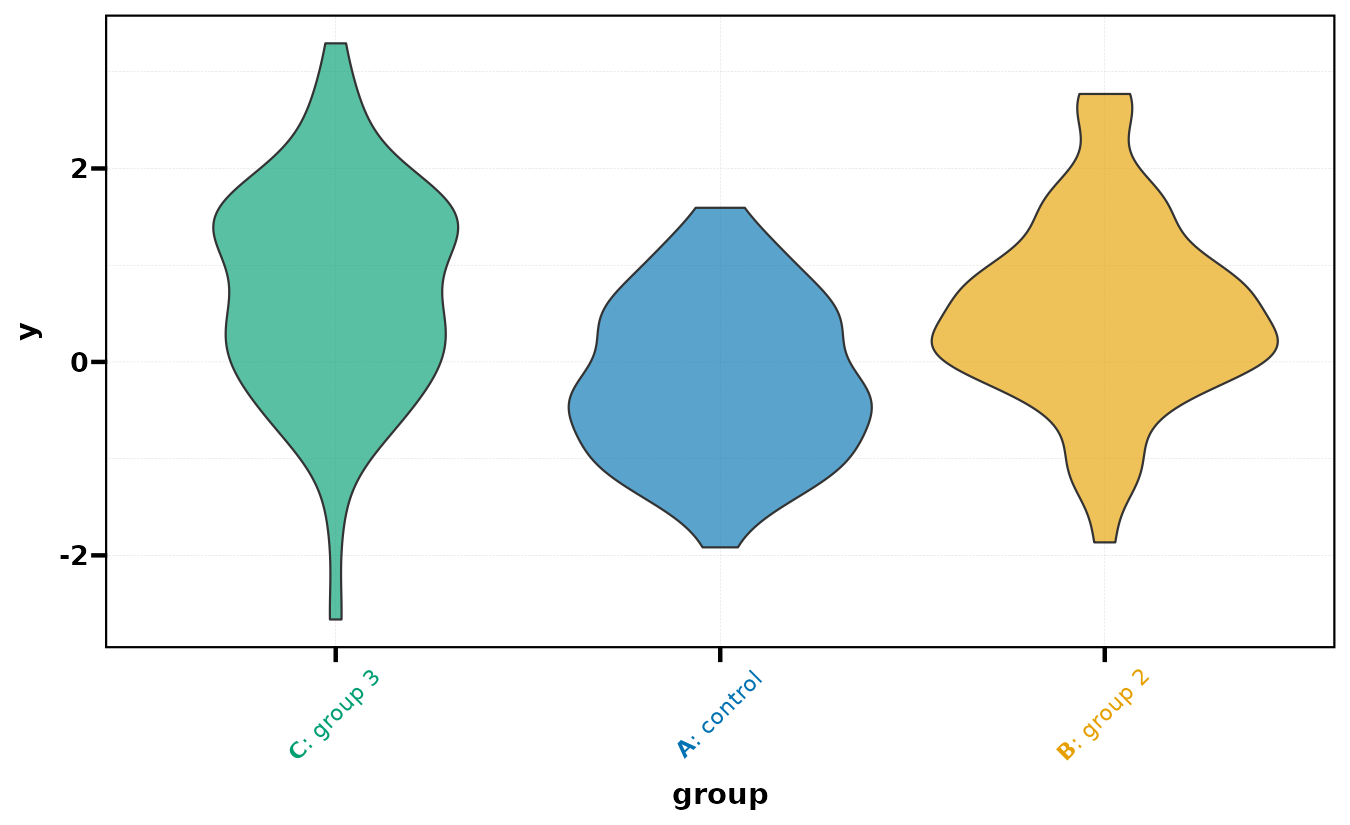
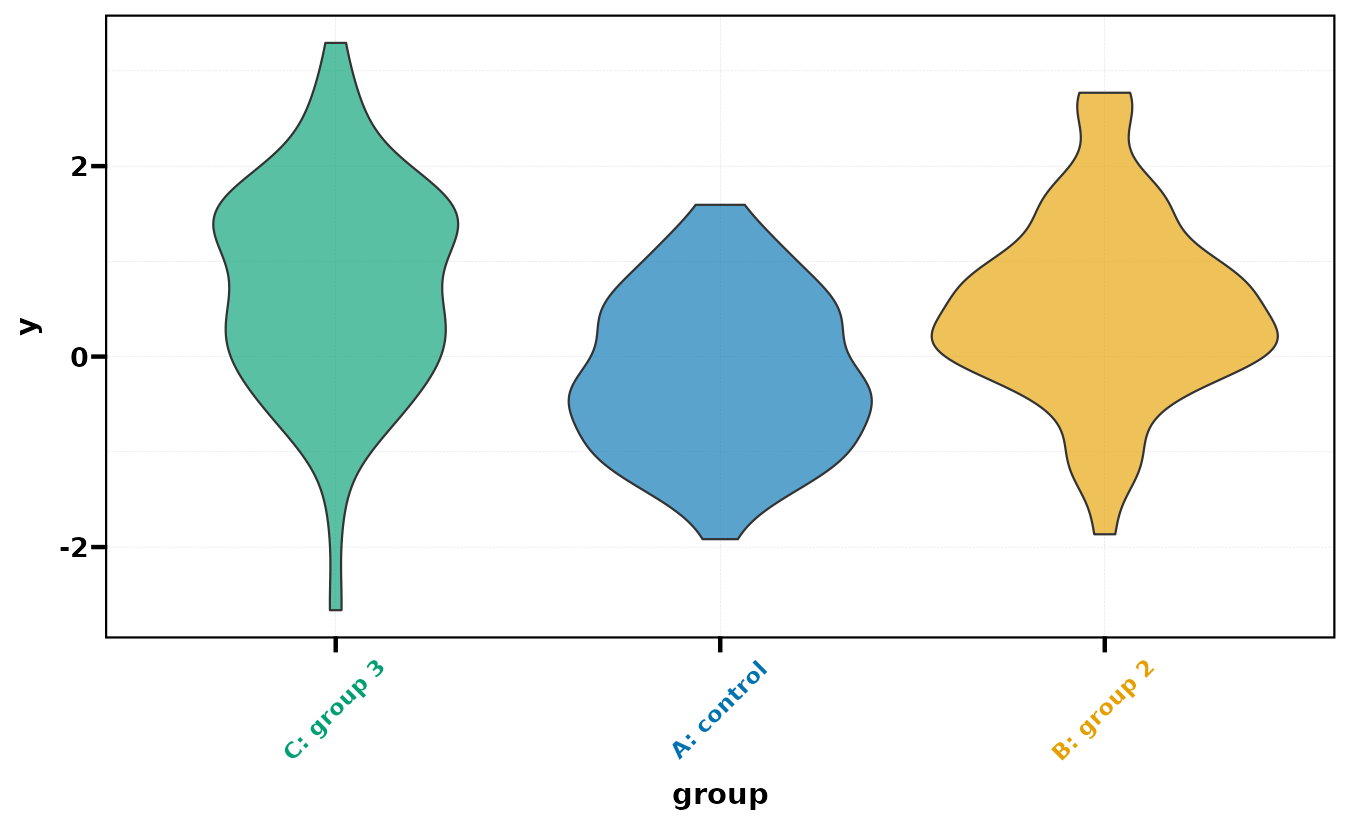
docs(utilsr): follow fmt_axisTile defaults and new formatter warnings
fmt_axisTile() now keeps the plot's axis text style and returns a ggplot
for a ggplot in tile mode; the six axis tile and colored-text figures are
redrawn with UtilsR 237b839 and the signature, return-type notes and text
are updated. The guide also documents the fmt_axis() plot_dims warning and
plot_layout(axes = "collect"), the fmt_expand() warning under
coord_*(expand = FALSE), and supplying sec.axis again in fmt_scale() for an
already drawn plot.

diff --git a/docs/utilsr/format-guide.html b/docs/utilsr/format-guide.html
@@ -1122,7 +1122,7 @@ pre > code.sourceCode > span > a:first-child::before { text-decoration: underlin
 
 
 <p>fmt_plot 和常用 fmt_* 的前后对照、主题选择、坐标尺度及多面板格式化。各节用固定输入比较重要参数，标签页中展示可复制代码与实际结果。</p>
-<p><strong>核对记录：</strong> 本次按已推送 UtilsR <code>fc078ec</code> 更新统计比较、背景与图例，修复越界的 label.y.prop 示例，并实际执行新增的配对、单侧与校正 P 值对照。已有轴文字、颜色条、条带及其他图保留各自执行快照；2026-10-12–13新增12张实图：统计、背景与图例按fc078ec执行，后补4张留白图按已推送1eb5faf执行。包版本仍为 0.6.8；输入均为固定种子的模拟数据。</p>
+<p><strong>核对记录：</strong> 2026-10-18 按已推送 UtilsR <code>237b839</code> 重绘轴颜色条与彩色轴文字的六张图，并补充 <code>fmt_axis()</code>、<code>fmt_expand()</code> 的新警告和 <code>fmt_scale()</code> 的副轴说明。此前按已推送 UtilsR <code>fc078ec</code> 更新统计比较、背景与图例，修复越界的 label.y.prop 示例，并实际执行新增的配对、单侧与校正 P 值对照。已有轴文字、颜色条、条带及其他图保留各自执行快照；2026-10-12–13新增12张实图：统计、背景与图例按fc078ec执行，后补4张留白图按已推送1eb5faf执行。包版本仍为 0.6.8；输入均为固定种子的模拟数据。</p>
 <section id="data" class="level2">
 <h2 class="anchored" data-anchor-id="data">数据准备与输入约定</h2>
 <p>所有示例使用下列模拟数据，因子水平显式固定，重复执行可得到相同输入。</p>
@@ -1176,7 +1176,7 @@ pre > code.sourceCode > span > a:first-child::before { text-decoration: underlin
 <tr class="even">
 <td style="text-align: left;"><code>fmt_axis()</code></td>
 <td style="text-align: left;"><code>x.axis = FALSE</code>、<code>y.axis = FALSE</code>、<code>plot_dims = NULL</code></td>
-<td style="text-align: left;">TRUE 表示隐藏；也可用子图索引或维度选择隐藏位置</td>
+<td style="text-align: left;">TRUE 表示隐藏；也可用子图索引或维度选择隐藏位置；plot_dims 与不含嵌套的拼图布局不符时警告</td>
 </tr>
 <tr class="odd">
 <td style="text-align: left;"><code>fmt_axisText()</code></td>
@@ -1185,8 +1185,8 @@ pre > code.sourceCode > span > a:first-child::before { text-decoration: underlin
 </tr>
 <tr class="even">
 <td style="text-align: left;"><code>fmt_axisTile()</code></td>
-<td style="text-align: left;"><code>colors</code>、<code>mode = "tile"</code>、<code>axis = "x"</code>、<code>tile_height/width</code></td>
-<td style="text-align: left;">离散轴用颜色块或文字编码，颜色按轴类别对应</td>
+<td style="text-align: left;"><code>colors</code>、<code>mode = "tile"</code>、<code>axis = "x"</code>、<code>tile_height/width</code>、<code>text_size/face/angle/color = NULL</code></td>
+<td style="text-align: left;">离散轴用颜色块或文字编码，颜色按轴类别对应；文字样式默认沿用原图，颜色名全部对不上时警告</td>
 </tr>
 <tr class="odd">
 <td style="text-align: left;"><code>fmt_text()</code></td>
@@ -1236,12 +1236,12 @@ pre > code.sourceCode > span > a:first-child::before { text-decoration: underlin
 <tr class="even">
 <td style="text-align: left;"><code>fmt_scale()</code></td>
 <td style="text-align: left;"><code>x/y</code> 命名 list</td>
-<td style="text-align: left;">breaks、labels、limits、trans 等交给对应 scale；limits 会移除范围外数据</td>
+<td style="text-align: left;">breaks、labels、limits、trans 等交给对应 scale；limits 会移除范围外数据；副轴复制后不与原图共用</td>
 </tr>
 <tr class="odd">
 <td style="text-align: left;"><code>fmt_expand()</code></td>
 <td style="text-align: left;"><code>mult = 0</code>、<code>add = c(0,0)</code>、<code>axis = NULL</code></td>
-<td style="text-align: left;">改两端留白；日期为天，日期时间/hms为秒，其他轴为变换后尺度单位</td>
+<td style="text-align: left;">改两端留白；日期为天，日期时间/hms为秒，其他轴为变换后尺度单位；coord_*(expand = FALSE) 时警告</td>
 </tr>
 <tr class="even">
 <td style="text-align: left;"><code>fmt_point()</code></td>
@@ -1336,24 +1336,24 @@ pre > code.sourceCode > span > a:first-child::before { text-decoration: underlin
 </div>
 </div>
 <div id="tabset-2-3" class="tab-pane" role="tabpanel" aria-labelledby="tabset-2-3-tab">
-<p>在离散横轴外增加颜色条，与 A/B/C 的类别固定对应。</p>
+<p>在离散横轴外增加颜色条，与 A/B/C 的类别固定对应；轴文字沿用原图的字号、字体和角度。</p>
 <div class="code-copy-outer-scaffold"><div class="sourceCode" id="cb8"><pre class="sourceCode r code-with-copy"><code class="sourceCode r"><span id="cb8-1"><a href="#cb8-1" aria-hidden="true" tabindex="-1"></a><span class="fu">fmt_axisTile</span>(p_box, <span class="at">colors =</span> cols, <span class="at">mode =</span> <span class="st">"tile"</span>, <span class="at">axis =</span> <span class="st">"x"</span>,</span>
 <span id="cb8-2"><a href="#cb8-2" aria-hidden="true" tabindex="-1"></a>             <span class="at">tile_height =</span> <span class="fl">0.08</span>, <span class="at">tile_border =</span> <span class="st">"white"</span>)</span></code></pre></div><button title="复制到剪贴板" class="code-copy-button"><i class="bi"></i></button></div>
 <div class="quarto-figure quarto-figure-center">
 <figure class="figure">
-<p><a href="images/format-guide/axis-tile.png" class="lightbox" data-gallery="quarto-lightbox-gallery-7" title="在离散横轴外增加颜色条，与 A/B/C 的类别固定对应。"><img src="images/format-guide/axis-tile.png" class="img-fluid figure-img" alt="ggplot 格式化：主题、坐标、图例、条带与面板标签；轴颜色条；固定模拟数据的实际参数对照结果。" loading="lazy" decoding="async" width="1200" height="750" srcset="../assets/figure-previews/e1ece896e51b4bd42d44fe6d712aa2f3.webp"></a></p>
-<figcaption>在离散横轴外增加颜色条，与 A/B/C 的类别固定对应。</figcaption>
+<p><a href="images/format-guide/axis-tile.png" class="lightbox" data-gallery="quarto-lightbox-gallery-7" title="在离散横轴外增加颜色条，与 A/B/C 的类别固定对应；轴文字沿用原图的字号、字体和角度。"><img src="images/format-guide/axis-tile.png" class="img-fluid figure-img" alt="ggplot 格式化：主题、坐标、图例、条带与面板标签；轴颜色条；固定模拟数据的实际参数对照结果。" loading="lazy" decoding="async" width="1200" height="750" srcset="../assets/figure-previews/7aa726a4dd85a3f258914fb086c20e51.webp"></a></p>
+<figcaption>在离散横轴外增加颜色条，与 A/B/C 的类别固定对应；轴文字沿用原图的字号、字体和角度。</figcaption>
 </figure>
 </div>
 </div>
 <div id="tabset-2-4" class="tab-pane" role="tabpanel" aria-labelledby="tabset-2-4-tab">
-<p>改用文字颜色编码类别；没有额外轴颜色块。</p>
+<p>改用文字颜色编码类别；没有额外轴颜色块。未设 text_angle，文字保持原图的水平方向。</p>
 <div class="code-copy-outer-scaffold"><div class="sourceCode" id="cb9"><pre class="sourceCode r code-with-copy"><code class="sourceCode r"><span id="cb9-1"><a href="#cb9-1" aria-hidden="true" tabindex="-1"></a><span class="fu">fmt_axisTile</span>(p_box, <span class="at">colors =</span> cols, <span class="at">mode =</span> <span class="st">"text"</span>, <span class="at">axis =</span> <span class="st">"x"</span>,</span>
 <span id="cb9-2"><a href="#cb9-2" aria-hidden="true" tabindex="-1"></a>             <span class="at">text_size =</span> <span class="dv">13</span>, <span class="at">text_face =</span> <span class="st">"bold"</span>)</span></code></pre></div><button title="复制到剪贴板" class="code-copy-button"><i class="bi"></i></button></div>
 <div class="quarto-figure quarto-figure-center">
 <figure class="figure">
-<p><a href="images/format-guide/axis-color-text.png" class="lightbox" data-gallery="quarto-lightbox-gallery-8" title="改用文字颜色编码类别；没有额外轴颜色块。"><img src="images/format-guide/axis-color-text.png" class="img-fluid figure-img" alt="ggplot 格式化：主题、坐标、图例、条带与面板标签；彩色轴文字；固定模拟数据的实际参数对照结果。" loading="lazy" decoding="async" width="1200" height="750" srcset="../assets/figure-previews/4e8e6a388d5be9d69fe20c0e593b7116.webp"></a></p>
-<figcaption>改用文字颜色编码类别；没有额外轴颜色块。</figcaption>
+<p><a href="images/format-guide/axis-color-text.png" class="lightbox" data-gallery="quarto-lightbox-gallery-8" title="改用文字颜色编码类别；没有额外轴颜色块。未设 text_angle，文字保持原图的水平方向。"><img src="images/format-guide/axis-color-text.png" class="img-fluid figure-img" alt="ggplot 格式化：主题、坐标、图例、条带与面板标签；彩色轴文字；固定模拟数据的实际参数对照结果。" loading="lazy" decoding="async" width="1200" height="750" srcset="../assets/figure-previews/c8edeb9ab9c608a3bd088abb8a2b809c.webp"></a></p>
+<figcaption>改用文字颜色编码类别；没有额外轴颜色块。未设 text_angle，文字保持原图的水平方向。</figcaption>
 </figure>
 </div>
 </div>
@@ -1645,7 +1645,7 @@ pre > code.sourceCode > span > a:first-child::before { text-decoration: underlin
 <section id="current-layout" class="level2">
 <h2 class="anchored" data-anchor-id="current-layout">嵌套布局、索引与可重复格式化</h2>
 <p>本节按 UtilsR 0.6.8 源码 <code>6b498cc</code> 核对，下方三组新增图在 WSL R 4.4.3 中执行；原有简单布局图保留 2026-10-01 记录。</p>
-<p><code>fmt_axis()</code> 的整数索引按可编辑子图递归编号，spacer、guide area、固定包装图和 inset 不占索引。<code>TRUE</code> 在单图上隐藏该轴，在容器上分别保留最后一个可编辑图的 x 轴、第一个图的 y 轴；<code>FALSE</code> 保持当前状态，不恢复已经隐藏的元素。<code>plot_dims = c(nrow,ncol)</code> 根据实际布局选择外边界轴，并覆盖手动选择；它不会重排子图，也不会统一不同图的尺度。</p>
+<p><code>fmt_axis()</code> 的整数索引按可编辑子图递归编号，spacer、guide area、固定包装图和 inset 不占索引。<code>TRUE</code> 在单图上隐藏该轴，在容器上分别保留最后一个可编辑图的 x 轴、第一个图的 y 轴；<code>FALSE</code> 保持当前状态，不恢复已经隐藏的元素。<code>plot_dims = c(nrow,ncol)</code> 根据实际布局选择外边界轴，并覆盖手动选择；它不会重排子图，也不会统一不同图的尺度。不含嵌套的拼图由自身布局决定隐藏哪些轴，2026-10-18 起 <code>plot_dims</code> 与该布局不符时会警告（例如 2 × 2 拼图传 <code>c(4, 1)</code>）；嵌套拼图各自排布子图，不做比较。只想去掉完全相同的轴时，可在拼图上用 <code>patchwork::plot_layout(axes = "collect")</code>。</p>
 <p>嵌套矩阵、跨单元格的设计、按列填充和最后一行的空格均按当前布局处理。次坐标轴及 guide 自带的主题也会隐藏；<code>coord_radial()</code> 中 x 选择角度轴、y 选择半径轴。数据、坐标变换和轴线保持原样。</p>
 <p><code>fmt_tag()</code> 跳过占位元素，默认按 A–Z、AA、AB…连续编号；重复调用会替换该函数自己的标签，保留用户的其他注释。图内标签位置按显示面板解释，包括翻转与非线性坐标。</p>
 <p><code>fmt_strip(strip=FALSE)</code> 隐藏条带；再次启用可恢复保留的标签与样式。<code>fmt_strip2()</code> 针对对齐的规则网格添加列/行标题，最后一行的标题放在最右侧实际面板。它不会重新布局，不支持不对齐嵌套或不规则 design；固定 <code>wrap_elements()</code> 图应在包装前格式化。</p>
@@ -1694,6 +1694,7 @@ pre > code.sourceCode > span > a:first-child::before { text-decoration: underlin
 <h2 class="anchored" data-anchor-id="axis-current">轴文字、类别顺序与嵌套布局</h2>
 <p>当前 <code>fmt_axisText()</code> 通过已有的轴 guide 应用角度与文字样式，保留富文本类型、上 / 下 / 左 / 右轴的单独设置、嵌套布局和原对象。只设置 <code>x_hjust</code> / <code>y_hjust</code> 也会生效，不必同时传角度；<code>NULL</code> 保留既有设置。<code>...</code> 中显式给出的 theme 字段在最后应用。</p>
 <p><code>fmt_axisTile()</code> 的颜色名对应离散变量的原值，不对应改写后的显示文字。它按 scale 的实际顺序、breaks、未使用水平和 NA 处理标签；<code>axis</code> 选择最终物理横轴或纵轴，所以 <code>coord_flip()</code> 后的类别轴通常为 <code>"y"</code>。连续轴、隐藏的 guide 和其他类型 guide 保持原样；非 Cartesian 坐标会明确报错。guide 实现要求 ggplot2 ≥ 3.5.0。</p>
+<p>2026-10-18 起，<code>text_size</code>、<code>text_face</code>、<code>text_angle</code>、<code>text_color</code> 默认 <code>NULL</code>，沿用图上原有的轴文字样式，包括 <code>guide_axis(angle = )</code> 设置的角度；此前默认 9 号、plain、x 轴 45°、黑色，即使只想给文字上色的 text 模式也会把标签改小、改黑并旋转。需要旋转时显式写 <code>text_angle = 45</code>。<code>colors</code> 的名称一个都对不上轴上的值时（例如大小写或拼写错误），出图会警告一次；分面 scale 为 free 的轴不检查，因为某个面板可能本来就不含着色的类别。</p>
 <!-- format-axis:start -->
 <div class="tabset-margin-container"></div><div class="panel-tabset">
 <ul class="nav nav-tabs" role="tablist"><li class="nav-item" role="presentation"><a class="nav-link active" id="tabset-8-1-tab" data-bs-toggle="tab" data-bs-target="#tabset-8-1" role="tab" aria-controls="tabset-8-1" aria-selected="true" href="">富文本旋转</a></li><li class="nav-item" role="presentation"><a class="nav-link" id="tabset-8-2-tab" data-bs-toggle="tab" data-bs-target="#tabset-8-2" role="tab" aria-controls="tabset-8-2" aria-selected="false" href="">富文本按原类别着色</a></li><li class="nav-item" role="presentation"><a class="nav-link" id="tabset-8-3-tab" data-bs-toggle="tab" data-bs-target="#tabset-8-3" role="tab" aria-controls="tabset-8-3" aria-selected="false" href="">翻转后的物理纵轴</a></li><li class="nav-item" role="presentation"><a class="nav-link" id="tabset-8-4-tab" data-bs-toggle="tab" data-bs-target="#tabset-8-4" role="tab" aria-controls="tabset-8-4" aria-selected="false" href="">嵌套组合图与轴收集</a></li><li class="nav-item" role="presentation"><a class="nav-link" id="tabset-8-5-tab" data-bs-toggle="tab" data-bs-target="#tabset-8-5" role="tab" aria-controls="tabset-8-5" aria-selected="false" href="">相同类别轴的收集</a></li></ul>
@@ -1718,7 +1719,7 @@ pre > code.sourceCode > span > a:first-child::before { text-decoration: underlin
 <span id="cb37-3"><a href="#cb37-3" aria-hidden="true" tabindex="-1"></a>p_rich_colored</span></code></pre></div><button title="复制到剪贴板" class="code-copy-button"><i class="bi"></i></button></div>
 <div class="quarto-figure quarto-figure-center">
 <figure class="figure">
-<p><a href="images/format-guide/axis-rich-colors.png" class="lightbox" data-gallery="quarto-lightbox-gallery-36" title="颜色按 C、A、B 的原类别名匹配，不因改写标签或调整顺序而错配。"><img src="images/format-guide/axis-rich-colors.png" class="img-fluid figure-img" alt="富文本标签 C 为绿色、A 为蓝色、B 为橙色，颜色随原类别而非显示文字匹配。" loading="lazy" decoding="async" width="1350" height="825" srcset="../assets/figure-previews/add6dff8d55530762e9ff8bbc226908f.webp"></a></p>
+<p><a href="images/format-guide/axis-rich-colors.png" class="lightbox" data-gallery="quarto-lightbox-gallery-36" title="颜色按 C、A、B 的原类别名匹配，不因改写标签或调整顺序而错配。"><img src="images/format-guide/axis-rich-colors.png" class="img-fluid figure-img" alt="富文本标签 C 为绿色、A 为蓝色、B 为橙色，颜色随原类别而非显示文字匹配。" loading="lazy" decoding="async" width="1350" height="825" srcset="../assets/figure-previews/2768fbce447b684d8bb664e4084a726b.webp"></a></p>
 <figcaption>颜色按 C、A、B 的原类别名匹配，不因改写标签或调整顺序而错配。</figcaption>
 </figure>
 </div>
@@ -1729,7 +1730,7 @@ pre > code.sourceCode > span > a:first-child::before { text-decoration: underlin
 <span id="cb38-3"><a href="#cb38-3" aria-hidden="true" tabindex="-1"></a>p_flipped_tile</span></code></pre></div><button title="复制到剪贴板" class="code-copy-button"><i class="bi"></i></button></div>
 <div class="quarto-figure quarto-figure-center">
 <figure class="figure">
-<p><a href="images/format-guide/axis-tile-flipped.png" class="lightbox" data-gallery="quarto-lightbox-gallery-37" title="coord_flip 后用 axis=y 设置纵向类别颜色条，数据与类别颜色对应关系保留。"><img src="images/format-guide/axis-tile-flipped.png" class="img-fluid figure-img" alt="水平小提琴图的左侧纵向类别轴有 A 蓝、B 橙、C 绿的颜色条。" loading="lazy" decoding="async" width="1350" height="825" srcset="../assets/figure-previews/71d10d7c2ca89aecf380bf2aa3d35164.webp"></a></p>
+<p><a href="images/format-guide/axis-tile-flipped.png" class="lightbox" data-gallery="quarto-lightbox-gallery-37" title="coord_flip 后用 axis=y 设置纵向类别颜色条，数据与类别颜色对应关系保留。"><img src="images/format-guide/axis-tile-flipped.png" class="img-fluid figure-img" alt="水平小提琴图的左侧纵向类别轴有 A 蓝、B 橙、C 绿的颜色条。" loading="lazy" decoding="async" width="1350" height="825" srcset="../assets/figure-previews/4afbc2b3e6beb0d9dcf890628ba88805.webp"></a></p>
 <figcaption>coord_flip 后用 axis=y 设置纵向类别颜色条，数据与类别颜色对应关系保留。</figcaption>
 </figure>
 </div>
@@ -1742,7 +1743,7 @@ pre > code.sourceCode > span > a:first-child::before { text-decoration: underlin
 <span id="cb39-5"><a href="#cb39-5" aria-hidden="true" tabindex="-1"></a>p_nested_tile</span></code></pre></div><button title="复制到剪贴板" class="code-copy-button"><i class="bi"></i></button></div>
 <div class="quarto-figure quarto-figure-center">
 <figure class="figure">
-<p><a href="images/format-guide/axis-tile-nested.png" class="lightbox" data-gallery="quarto-lightbox-gallery-38" title="两层嵌套保留四幅图、各自的颜色条和总标题。"><img src="images/format-guide/axis-tile-nested.png" class="img-fluid figure-img" alt="两层嵌套的四幅小提琴图各有类别标签和配色条，保留总标题。" loading="lazy" decoding="async" width="1350" height="1050" srcset="../assets/figure-previews/dea0f355daa31517cb57562b35d53389.webp"></a></p>
+<p><a href="images/format-guide/axis-tile-nested.png" class="lightbox" data-gallery="quarto-lightbox-gallery-38" title="两层嵌套保留四幅图、各自的颜色条和总标题。"><img src="images/format-guide/axis-tile-nested.png" class="img-fluid figure-img" alt="两层嵌套的四幅小提琴图各有类别标签和配色条，保留总标题。" loading="lazy" decoding="async" width="1350" height="1050" srcset="../assets/figure-previews/23c1e523058d8294cb2675f67e5054ea.webp"></a></p>
 <figcaption>两层嵌套保留四幅图、各自的颜色条和总标题。</figcaption>
 </figure>
 </div>
@@ -1756,7 +1757,7 @@ pre > code.sourceCode > span > a:first-child::before { text-decoration: underlin
 <span id="cb40-5"><a href="#cb40-5" aria-hidden="true" tabindex="-1"></a>p_collected_tile</span></code></pre></div><button title="复制到剪贴板" class="code-copy-button"><i class="bi"></i></button></div>
 <div class="quarto-figure quarto-figure-center">
 <figure class="figure">
-<p><a href="images/format-guide/axis-tile-collected.png" class="lightbox" data-gallery="quarto-lightbox-gallery-39" title="两幅图共享底部类别轴，颜色条与该轴一起收集。"><img src="images/format-guide/axis-tile-collected.png" class="img-fluid figure-img" alt="上下排列的两幅小提琴图只在底部保留一组 A、B、C 标签与蓝橙绿颜色条。" loading="lazy" decoding="async" width="1350" height="1050" srcset="../assets/figure-previews/5348755f18567bcc3eaef0ccbfafb127.webp"></a></p>
+<p><a href="images/format-guide/axis-tile-collected.png" class="lightbox" data-gallery="quarto-lightbox-gallery-39" title="两幅图共享底部类别轴，颜色条与该轴一起收集。"><img src="images/format-guide/axis-tile-collected.png" class="img-fluid figure-img" alt="上下排列的两幅小提琴图只在底部保留一组 A、B、C 标签与蓝橙绿颜色条。" loading="lazy" decoding="async" width="1350" height="1050" srcset="../assets/figure-previews/e68a7e17f12ce7dab356d4beb6844e80.webp"></a></p>
 <figcaption>两幅图共享底部类别轴，颜色条与该轴一起收集。</figcaption>
 </figure>
 </div>
@@ -1764,8 +1765,8 @@ pre > code.sourceCode > span > a:first-child::before { text-decoration: underlin
 </div>
 </div>
 <!-- format-axis:end -->
-<p>同一类别与颜色映射才能收集为同一 guide；不同配色保留各自颜色条。重复调用会更新已有格式，切换 tile / text 不会不断嵌套新条带。tile 模式的单图仍包装为 patchwork，text 模式保留输入容器；命名列表仍返回列表，固定图形与插图不参与可编辑数据图的格式化。</p>
-<p>源码：<a href="https://github.com/HUI950319/UtilsR/blob/f909d90/R/fmt_plot.R">轴格式化与颜色条</a>。上述五图均使用同一份模拟数据，格式化不改变分组值或分析数据。</p>
+<p>同一类别与颜色映射才能收集为同一 guide；不同配色保留各自颜色条。重复调用会更新已有格式，切换 tile / text 不会不断嵌套新条带。两种模式都保留输入类型：单个 ggplot 返回 ggplot，tile 模式不再包成 patchwork；拼图保留原布局，命名列表仍返回列表，其中的 ggplot 逐项返回 ggplot；固定图形与插图不参与可编辑数据图的格式化。</p>
+<p>源码：<a href="https://github.com/HUI950319/UtilsR/blob/237b839/R/fmt_plot.R">轴格式化与颜色条</a>。四张 <code>fmt_axisTile()</code> 图于 2026-10-18 按该提交在 WSL R 4.4.3 重绘，富文本旋转图保留 <code>f909d90</code> 的执行快照。上述五图均使用同一份模拟数据，格式化不改变分组值或分析数据。</p>
 </section>
 <section id="statistical-comparisons" class="level2">
 <h2 class="anchored" data-anchor-id="statistical-comparisons">统计比较：配对、方向与校正</h2>
@@ -1894,7 +1895,7 @@ pre > code.sourceCode > span > a:first-child::before { text-decoration: underlin
 <section id="expand-current" class="level2">
 <h2 class="anchored" data-anchor-id="expand-current">留白保留原坐标设置与时间精度</h2>
 <p>已推送UtilsR <code>b039c51</code> / <code>1eb5faf</code> 让 <code>fmt_expand()</code> 保留已有scale的变换、limits、breaks、labels、guide和secondary axis，并区分Date、POSIXct与hms。本节从提交 <code>1eb5faf</code> 导出源码到项目外，在WSL R 4.4.3实际绘制；其他图沿用各自执行快照。</p>
-<p><code>mult</code> 是上下端相对比例，<code>add</code> 的单位依轴类型：Date为天，POSIXct与hms为秒，其他轴按变换后的尺度。留白不修改原数据，也不取消原有limits的筛选行为。</p>
+<p><code>mult</code> 是上下端相对比例，<code>add</code> 的单位依轴类型：Date为天，POSIXct与hms为秒，其他轴按变换后的尺度。留白不修改原数据，也不取消原有limits的筛选行为。图里有 <code>coord_*(expand = FALSE)</code> 时 ggplot2 会忽略 scale 的留白，2026-10-18 起 <code>fmt_expand()</code> 每次调用对此警告一次；只关闭部分边留白的坐标系不报告。</p>
 <div class="tabset-margin-container"></div><div class="panel-tabset">
 <ul class="nav nav-tabs" role="tablist"><li class="nav-item" role="presentation"><a class="nav-link active" id="tabset-11-1-tab" data-bs-toggle="tab" data-bs-target="#tabset-11-1" role="tab" aria-controls="tabset-11-1" aria-selected="true" href="">保留log变换、刻度和副轴</a></li><li class="nav-item" role="presentation"><a class="nav-link" id="tabset-11-2-tab" data-bs-toggle="tab" data-bs-target="#tabset-11-2" role="tab" aria-controls="tabset-11-2" aria-selected="false" href="">Date以天为单位</a></li><li class="nav-item" role="presentation"><a class="nav-link" id="tabset-11-3-tab" data-bs-toggle="tab" data-bs-target="#tabset-11-3" role="tab" aria-controls="tabset-11-3" aria-selected="false" href="">POSIXct保留小时分辨率</a></li><li class="nav-item" role="presentation"><a class="nav-link" id="tabset-11-4-tab" data-bs-toggle="tab" data-bs-target="#tabset-11-4" role="tab" aria-controls="tabset-11-4" aria-selected="false" href="">hms按秒增加留白</a></li></ul>
 <div class="tab-content">
@@ -1960,6 +1961,7 @@ pre > code.sourceCode > span > a:first-child::before { text-decoration: underlin
 <h2 class="anchored" data-anchor-id="formatter-current">最近格式化合同：尺度、分布与箱线</h2>
 <p>2026-10-15按已推送UtilsR <code>b2b2000</code> 在WSL R 4.4.3执行以下七张新图，并检查build数据、时间类、原始图层和错误边界。此前图形继续保留各自的执行快照。依次运行本节代码；后面的密度标签页复用前一标签页的 <code>p_his0</code>。</p>
 <p><code>fmt_scale()</code> / <code>fmt_expand()</code> 递归修改普通嵌套图，保留布局与特殊占位；参数list需要唯一且非空的名称。函数或formula数据在正常build时执行。旧图要应用这些行为，需重新调用formatter并构建，已导出的PNG不会自行改变。源码：<a href="https://github.com/HUI950319/UtilsR/blob/b2b2000/R/fmt_plot.R">fmt_plot.R</a>。</p>
+<p>2026-10-18 起，<code>fmt_scale()</code> 更新后的 scale 带有自己的副轴副本，不再与原图共用，绘制结果不会改动原图的副轴。ggplot2 在首次绘图时才把 <code>dup_axis()</code> 派生的 breaks/labels 填进副轴，所以原图如果已经画过，副轴会停在原来的刻度；要让副轴跟随新的 breaks/labels，在 <code>x</code>/<code>y</code> 中再传一次 <code>sec.axis</code>，例如 <code>fmt_scale(p, x = list(breaks = c(0, 5, 10), sec.axis = dup_axis()))</code>。</p>
 <div class="tabset-margin-container"></div><div class="panel-tabset">
 <ul class="nav nav-tabs" role="tablist"><li class="nav-item" role="presentation"><a class="nav-link active" id="tabset-12-1-tab" data-bs-toggle="tab" data-bs-target="#tabset-12-1" role="tab" aria-controls="tabset-12-1" aria-selected="true" href="">改变变换时保留数据单位的范围</a></li><li class="nav-item" role="presentation"><a class="nav-link" id="tabset-12-2-tab" data-bs-toggle="tab" data-bs-target="#tabset-12-2" role="tab" aria-controls="tabset-12-2" aria-selected="false" href="">从实际图层识别日期轴并遍历嵌套布局</a></li><li class="nav-item" role="presentation"><a class="nav-link" id="tabset-12-3-tab" data-bs-toggle="tab" data-bs-target="#tabset-12-3" role="tab" aria-controls="tabset-12-3" aria-selected="false" href="">log轴与后加free分面</a></li><li class="nav-item" role="presentation"><a class="nav-link" id="tabset-12-4-tab" data-bs-toggle="tab" data-bs-target="#tabset-12-4" role="tab" aria-controls="tabset-12-4" aria-selected="false" href="">最终坐标系统仍需是Cartesian</a></li><li class="nav-item" role="presentation"><a class="nav-link" id="tabset-12-5-tab" data-bs-toggle="tab" data-bs-target="#tabset-12-5" role="tab" aria-controls="tabset-12-5" aria-selected="false" href="">恢复继承网格并保持对比度</a></li><li class="nav-item" role="presentation"><a class="nav-link" id="tabset-12-6-tab" data-bs-toggle="tab" data-bs-target="#tabset-12-6" role="tab" aria-controls="tabset-12-6" aria-selected="false" href="">独立数据、mapping与显式离群点</a></li><li class="nav-item" role="presentation"><a class="nav-link" id="tabset-12-7-tab" data-bs-toggle="tab" data-bs-target="#tabset-12-7" role="tab" aria-controls="tabset-12-7" aria-selected="false" href="">已有箱线统计量无需补回原始x/y</a></li></ul>
 <div class="tab-content">
@@ -2106,14 +2108,14 @@ pre > code.sourceCode > span > a:first-child::before { text-decoration: underlin
 </section>
 <section id="output" class="level2">
 <h2 class="anchored" data-anchor-id="output">返回对象、保存与使用边界</h2>
-<p>多数 formatter 支持 ggplot、patchwork 和图列表，尽量保留输入对象类型。<code>fmt_axisTile(mode="tile")</code>、插图及图外标签可能把结果组织为 patchwork。格式化顺序有实际影响：后添加的 theme/scale 可能覆盖前面的设置。</p>
+<p>多数 formatter 支持 ggplot、patchwork 和图列表，尽量保留输入对象类型。插图及图外标签可能把结果组织为 patchwork；<code>fmt_axisTile()</code> 两种模式都返回与输入相同的类型。格式化顺序有实际影响：后添加的 theme/scale 可能覆盖前面的设置。</p>
 <div class="code-copy-outer-scaffold"><div class="sourceCode" id="cb61"><pre class="sourceCode r code-with-copy"><code class="sourceCode r"><span id="cb61-1"><a href="#cb61-1" aria-hidden="true" tabindex="-1"></a>final_plot <span class="ot">&lt;-</span> <span class="fu">fmt_legend</span>(p, <span class="at">legend.position =</span> <span class="st">"bottom"</span>)</span>
 <span id="cb61-2"><a href="#cb61-2" aria-hidden="true" tabindex="-1"></a><span class="co"># ggplot2::ggsave("formatted-scatter.pdf", final_plot, width = 8, height = 5)</span></span></code></pre></div><button title="复制到剪贴板" class="code-copy-button"><i class="bi"></i></button></div>
 <p>坐标观察窗、scale limits 与绘图抽样的作用不同。统计标注、添加箱线和分布图层会增加新的计算；配色、字号和标签位置主要改变显示。组合图中共享图例应保证类别映射一致。</p>
 </section>
 <section id="interfaces" class="level2">
 <h2 class="anchored" data-anchor-id="interfaces">当前完整接口</h2>
-<p>点击展开查看函数参数及默认值；fmt_text()的axis_titles按2026-10-15源码更新，其余历史图的执行范围见各节。</p>
+<p>点击展开查看函数参数及默认值；fmt_text()的axis_titles按2026-10-15源码更新，fmt_axisTile()的文字样式默认值按2026-10-18源码更新，其余历史图的执行范围见各节。</p>
 <details>
 <summary>
 公共函数签名
@@ -2138,8 +2140,8 @@ pre > code.sourceCode > span > a:first-child::before { text-decoration: underlin
 <span id="cb62-18"><a href="#cb62-18" aria-hidden="true" tabindex="-1"></a></span>
 <span id="cb62-19"><a href="#cb62-19" aria-hidden="true" tabindex="-1"></a>fmt_axisTile <span class="ot">&lt;-</span></span>
 <span id="cb62-20"><a href="#cb62-20" aria-hidden="true" tabindex="-1"></a><span class="cf">function</span> (plot, colors, <span class="at">mode =</span> <span class="fu">c</span>(<span class="st">"tile"</span>, <span class="st">"text"</span>), <span class="at">axis =</span> <span class="fu">c</span>(<span class="st">"x"</span>, <span class="st">"y"</span>), <span class="at">tile_height =</span> <span class="fl">0.06</span>, <span class="at">tile_width =</span> <span class="fl">0.06</span>,</span>
-<span id="cb62-21"><a href="#cb62-21" aria-hidden="true" tabindex="-1"></a>    <span class="at">tile_border =</span> <span class="st">"white"</span>, <span class="at">tile_border_width =</span> <span class="fl">0.2</span>, <span class="at">text_size =</span> <span class="dv">9</span>, <span class="at">text_face =</span> <span class="st">"plain"</span>, <span class="at">text_angle =</span> <span class="cn">NULL</span>,</span>
-<span id="cb62-22"><a href="#cb62-22" aria-hidden="true" tabindex="-1"></a>    <span class="at">text_color =</span> <span class="st">"black"</span>, <span class="at">show_text =</span> <span class="cn">TRUE</span>)</span>
+<span id="cb62-21"><a href="#cb62-21" aria-hidden="true" tabindex="-1"></a>    <span class="at">tile_border =</span> <span class="st">"white"</span>, <span class="at">tile_border_width =</span> <span class="fl">0.2</span>, <span class="at">text_size =</span> <span class="cn">NULL</span>, <span class="at">text_face =</span> <span class="cn">NULL</span>, <span class="at">text_angle =</span> <span class="cn">NULL</span>,</span>
+<span id="cb62-22"><a href="#cb62-22" aria-hidden="true" tabindex="-1"></a>    <span class="at">text_color =</span> <span class="cn">NULL</span>, <span class="at">show_text =</span> <span class="cn">TRUE</span>)</span>
 <span id="cb62-23"><a href="#cb62-23" aria-hidden="true" tabindex="-1"></a><span class="cn">NULL</span></span>
 <span id="cb62-24"><a href="#cb62-24" aria-hidden="true" tabindex="-1"></a></span>
 <span id="cb62-25"><a href="#cb62-25" aria-hidden="true" tabindex="-1"></a>fmt_text <span class="ot">&lt;-</span></span>

diff --git a/docs/index.html b/docs/index.html
@@ -1565,7 +1565,7 @@ LabR    Suggests -&gt; UtilsR</code></pre>
 <td style="text-align: left;">模型解释</td>
 <td style="text-align: left;">2026-10-01</td>
 </tr>
-<tr class="odd" data-keywords="aes as.Date as.POSIXct as.integer as_hms c coord_cartesian coord_flip coord_polar coord_radial data.frame dup_axis element_blank element_line element_markdown element_text exp expand.grid facet_wrap factor fmt_axis fmt_axisText fmt_axisTile fmt_bg fmt_boxplot fmt_com fmt_expand fmt_his fmt_legend fmt_panel fmt_plot fmt_plot_base fmt_point fmt_ref fmt_scale fmt_strip fmt_strip2 fmt_tag fmt_text function geom_blank geom_boxplot geom_line geom_point geom_violin ggplot ggplot_build ggsave ggtitle guide_axis identical label_number library list margin namespace nrow plot_annotation plot_spacer range rep rnorm scale_colour_manual scale_fill_manual scale_shape_manual scale_x_continuous scale_x_discrete scale_x_log10 scale_y_log10 seq seq_len set.seed sprintf stopifnot system table theme theme_blank theme_bw theme_heat theme_minimal theme_my transform unit vars wrap_elements wrap_plots">
+<tr class="odd" data-keywords="aes as.Date as.POSIXct as.integer as_hms c coord_cartesian coord_flip coord_polar coord_radial data.frame dup_axis element_blank element_line element_markdown element_text exp expand.grid facet_wrap factor fmt_axis fmt_axisText fmt_axisTile fmt_bg fmt_boxplot fmt_com fmt_expand fmt_his fmt_legend fmt_panel fmt_plot fmt_plot_base fmt_point fmt_ref fmt_scale fmt_strip fmt_strip2 fmt_tag fmt_text function geom_blank geom_boxplot geom_line geom_point geom_violin ggplot ggplot_build ggsave ggtitle guide_axis identical label_number library list margin namespace nrow plot_annotation plot_layout plot_spacer range rep rnorm scale_colour_manual scale_fill_manual scale_shape_manual scale_x_continuous scale_x_discrete scale_x_log10 scale_y_log10 seq seq_len set.seed sprintf stopifnot system table theme theme_blank theme_bw theme_heat theme_minimal theme_my transform unit vars wrap_elements wrap_plots">
 <td style="text-align: left;">UtilsR</td>
 <td style="text-align: left;"><a href="./utilsr/format-guide.html">ggplot格式化：参考线、坐标、分布与箱线</a></td>
 <td style="text-align: left;">绘图与格式化</td>
